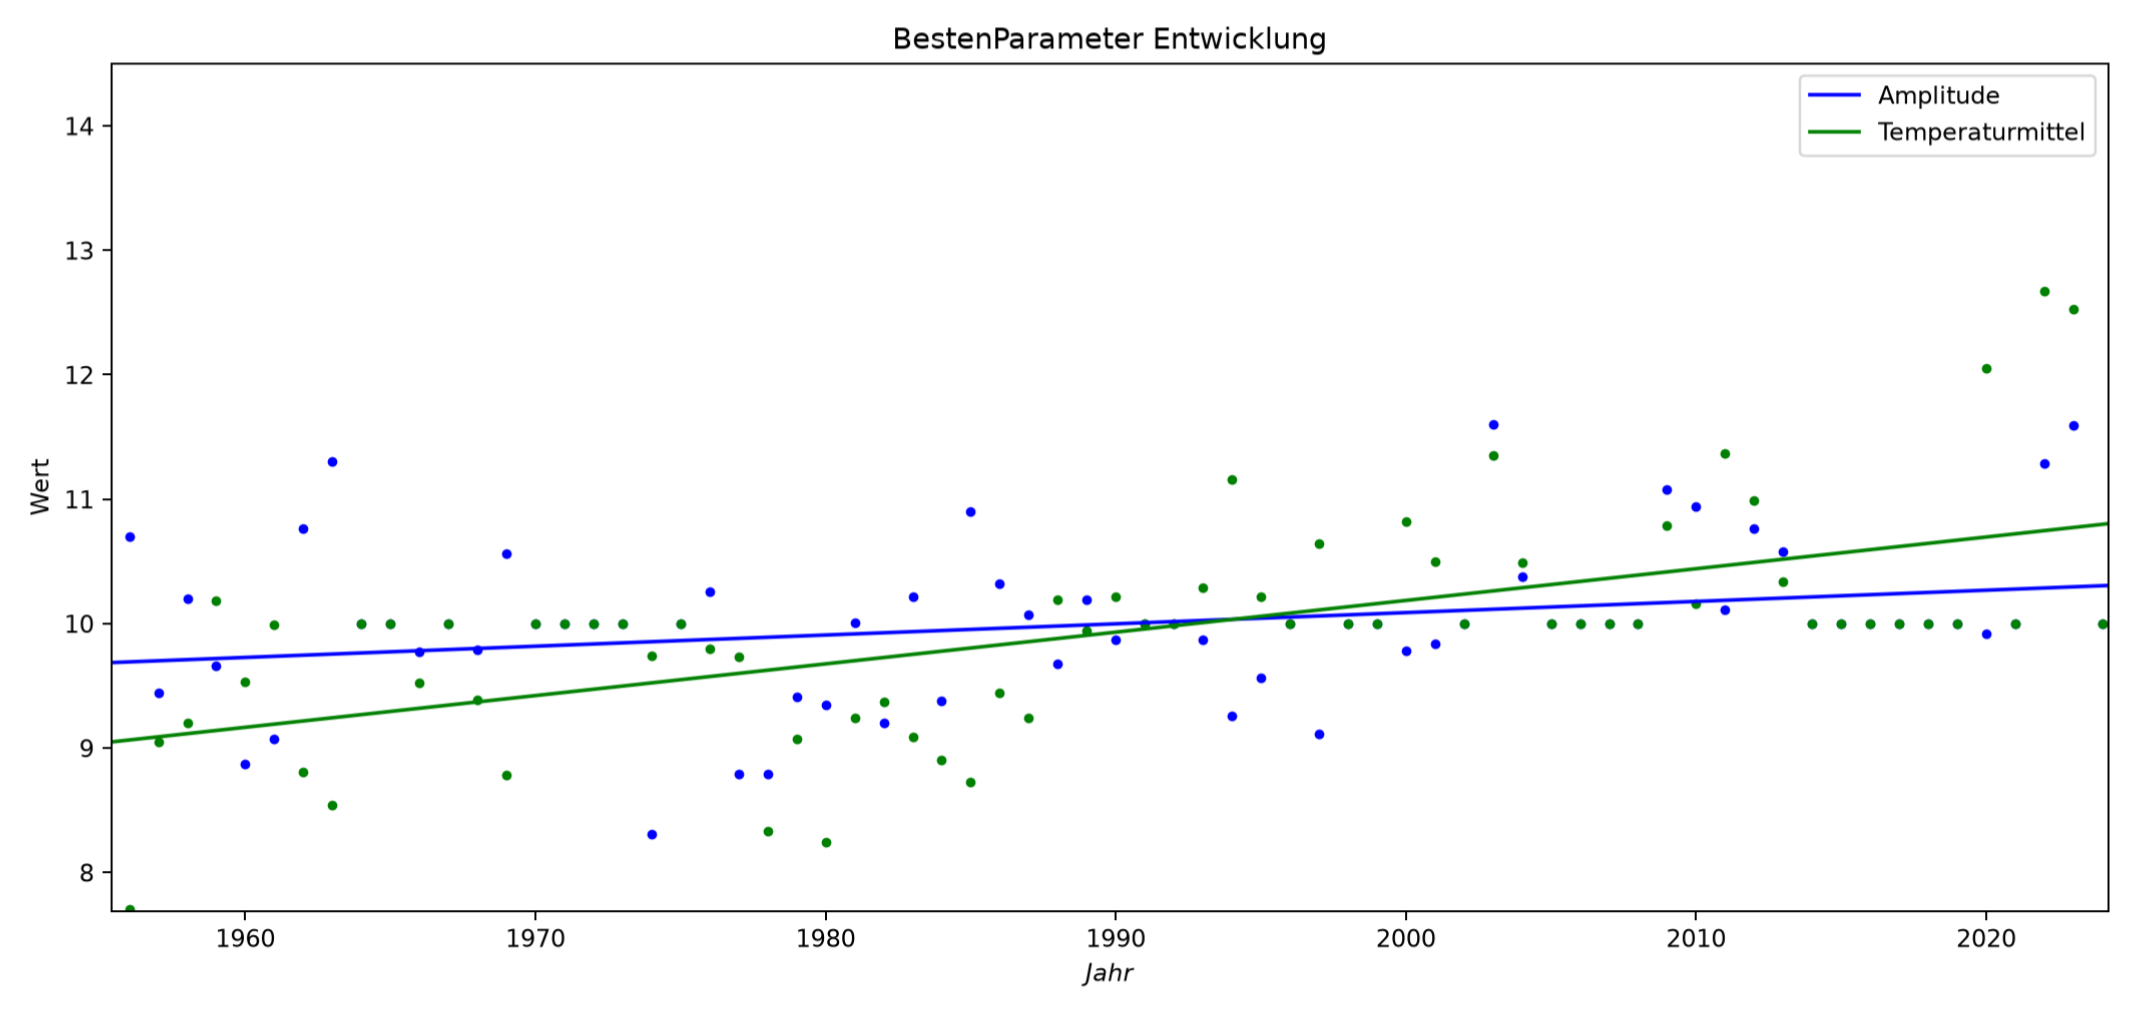
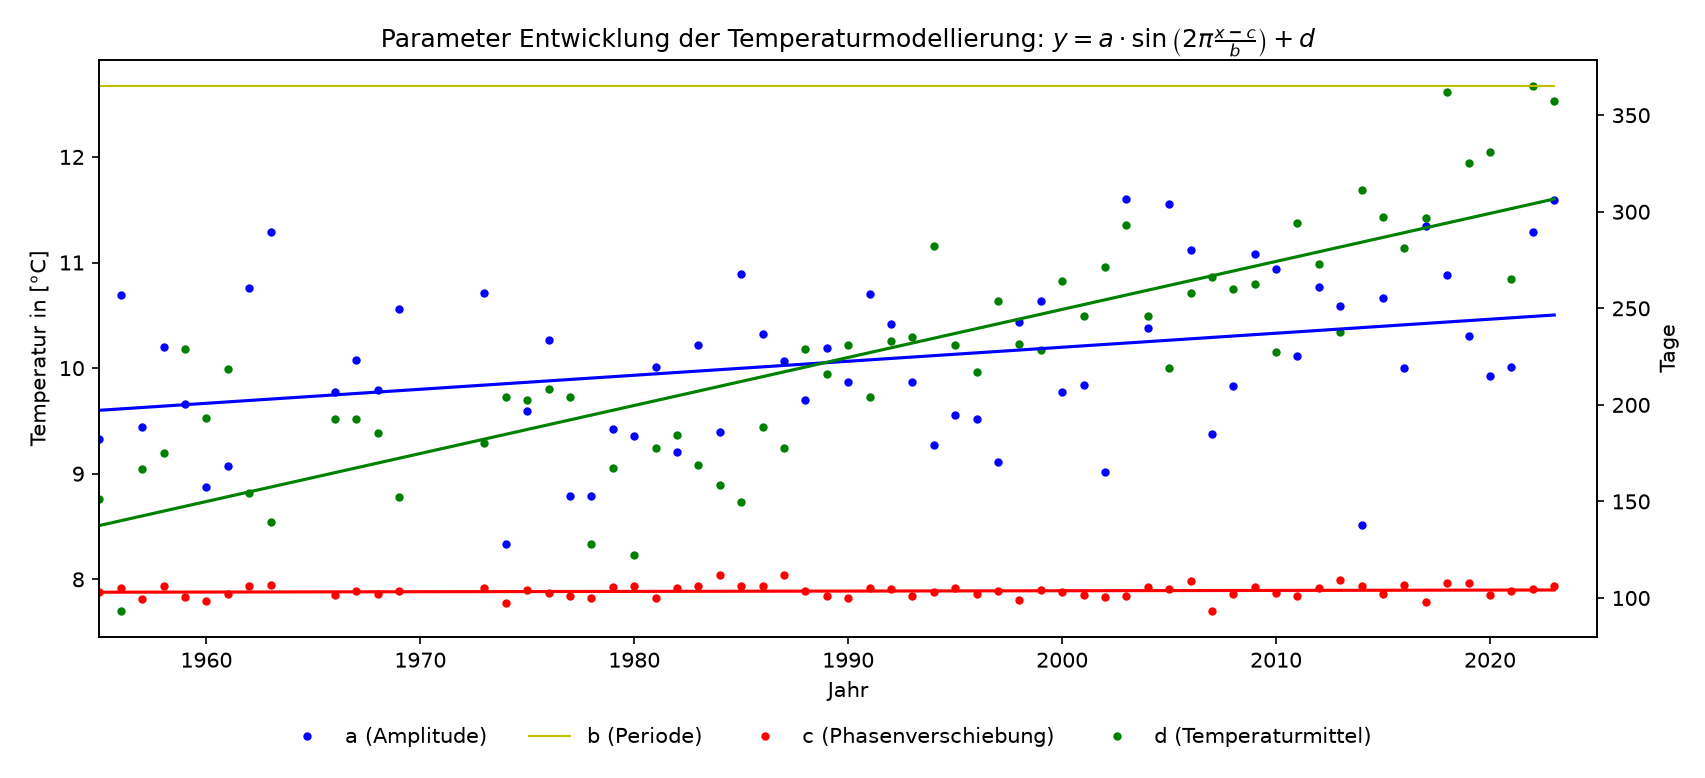
Änderung des Bilds temp_params_develpoment.png

diff --git a/models/Temperaturmodellierung/spezifischesJahr/besteParameterEntwicklung.py b/models/Temperaturmodellierung/spezifischesJahr/besteParameterEntwicklung.py
@@ -41,35 +41,63 @@ def d_func(y, since):
     return np.polynomial.Polynomial.fit(x[x >= since], d[x >= since], deg=1)(y)
 
 if __name__ == "__main__":
-    fig, ax = plt.subplots(figsize = (10, 4))
-    plt.title(f"BestenParameter Entwicklung")
-    plt.subplots_adjust(left = 0.12, bottom = 0.3)
-    plt.xlim(1955, 2025)
-    plt.ylim(0, 400)
-    plt.xlabel(r"$Jahr$")
-    plt.ylabel(r"Wert", rotation = 90)
-    
+    fig, ax = plt.subplots(figsize=(10, 4))
+
+    # Zweite y-Achse
+    ax2 = ax.twinx()
+
+    # Titel und Achsen
+    ax.set_title(
+        r"Parameter Entwicklung der Temperaturmodellierung: "
+        r"$y = a \cdot \sin\left(2\pi\frac{x-c}{b}\right) + d$"
+    )
+    ax.set_xlim(1955, 2025)
+
+    ax.set_xlabel("Jahr")
+
+    ax.set_ylabel("Temperatur in [°C]")
+    ax2.set_ylabel("Tage")
+
     # Datenpunkte
-    a_Graph, = plt.plot(x, a, 'b.', lw=1)
-    b_Graph, = plt.plot(x, b, 'y-', lw=1, label="Periode")
-    c_Graph, = plt.plot(x, c, 'r.', lw=1)
-    d_Graph, = plt.plot(x, d, 'g.', lw=1)
+    a_Graph, = ax.plot(x, a, 'b.', lw=1, label="a (Amplitude)")
+    b_Graph, = ax2.plot(x, b, 'y-', lw=1, label="b (Periode)")
+    c_Graph, = ax2.plot(x, c, 'r.', lw=1, label="c (Phasenverschiebung)")
+    d_Graph, = ax.plot(x, d, 'g.', lw=1, label="d (Temperaturmittel)")
+
+    # Ausgleichsgeraden
+    a_line = np.polyval(a_fit, x)
+    c_line = np.polyval(c_fit, x)
+    d_line = np.polyval(d_fit, x)
+
+    a_line_Graph, = ax.plot(
+        x, a_line, 'b-', lw=1.5
+    )
+
+    c_line_Graph, = ax2.plot(
+        x, c_line, 'r-', lw=1.5
+    )
+
+    d_line_Graph, = ax.plot(
+        x, d_line, 'g-', lw=1.5
+    )
 
     # Gleichungen in Konsole ausgeben
     print(f"Amplitude: y = {a_fit[0]:.6f}x + {a_fit[1]:.6f}")
     print(f"Phasenverschiebung: y = {c_fit[0]:.6f}x + {c_fit[1]:.6f}")
     print(f"Temperaturmittel: y = {d_fit[0]:.6f}x + {d_fit[1]:.6f}")
 
-    # Gerade aus den Koeffizienten erstellen
-    a_line = np.polyval(a_fit, x)
-    c_line = np.polyval(c_fit, x)
-    d_line = np.polyval(d_fit, x)
+    # Legenden beider Achsen zusammenführen
+    lines1, labels1 = ax.get_legend_handles_labels()
+    lines2, labels2 = ax2.get_legend_handles_labels()
 
-    # Ausgleichsgeraden zeichnen
-    plt.plot(x, a_line, 'b-', lw=1.5, label="Amplitude")
-    plt.plot(x, c_line, 'r-', lw=1.5, label="Phasenverschiebung")
-    plt.plot(x, d_line, 'g-', lw=1.5, label="Temperaturmittel")
+    fig.legend(
+        [lines1[0], lines2[0], lines2[1], lines1[1]],
+        [labels1[0], labels2[0], labels2[1], labels1[1]],
+        loc="lower center",
+        bbox_to_anchor=(0.5, 0.17),
+        ncol=4,
+        frameon=False
+    )
 
-    plt.legend()
-
+    plt.subplots_adjust(left=0.12, bottom=0.3)
     plt.show()
